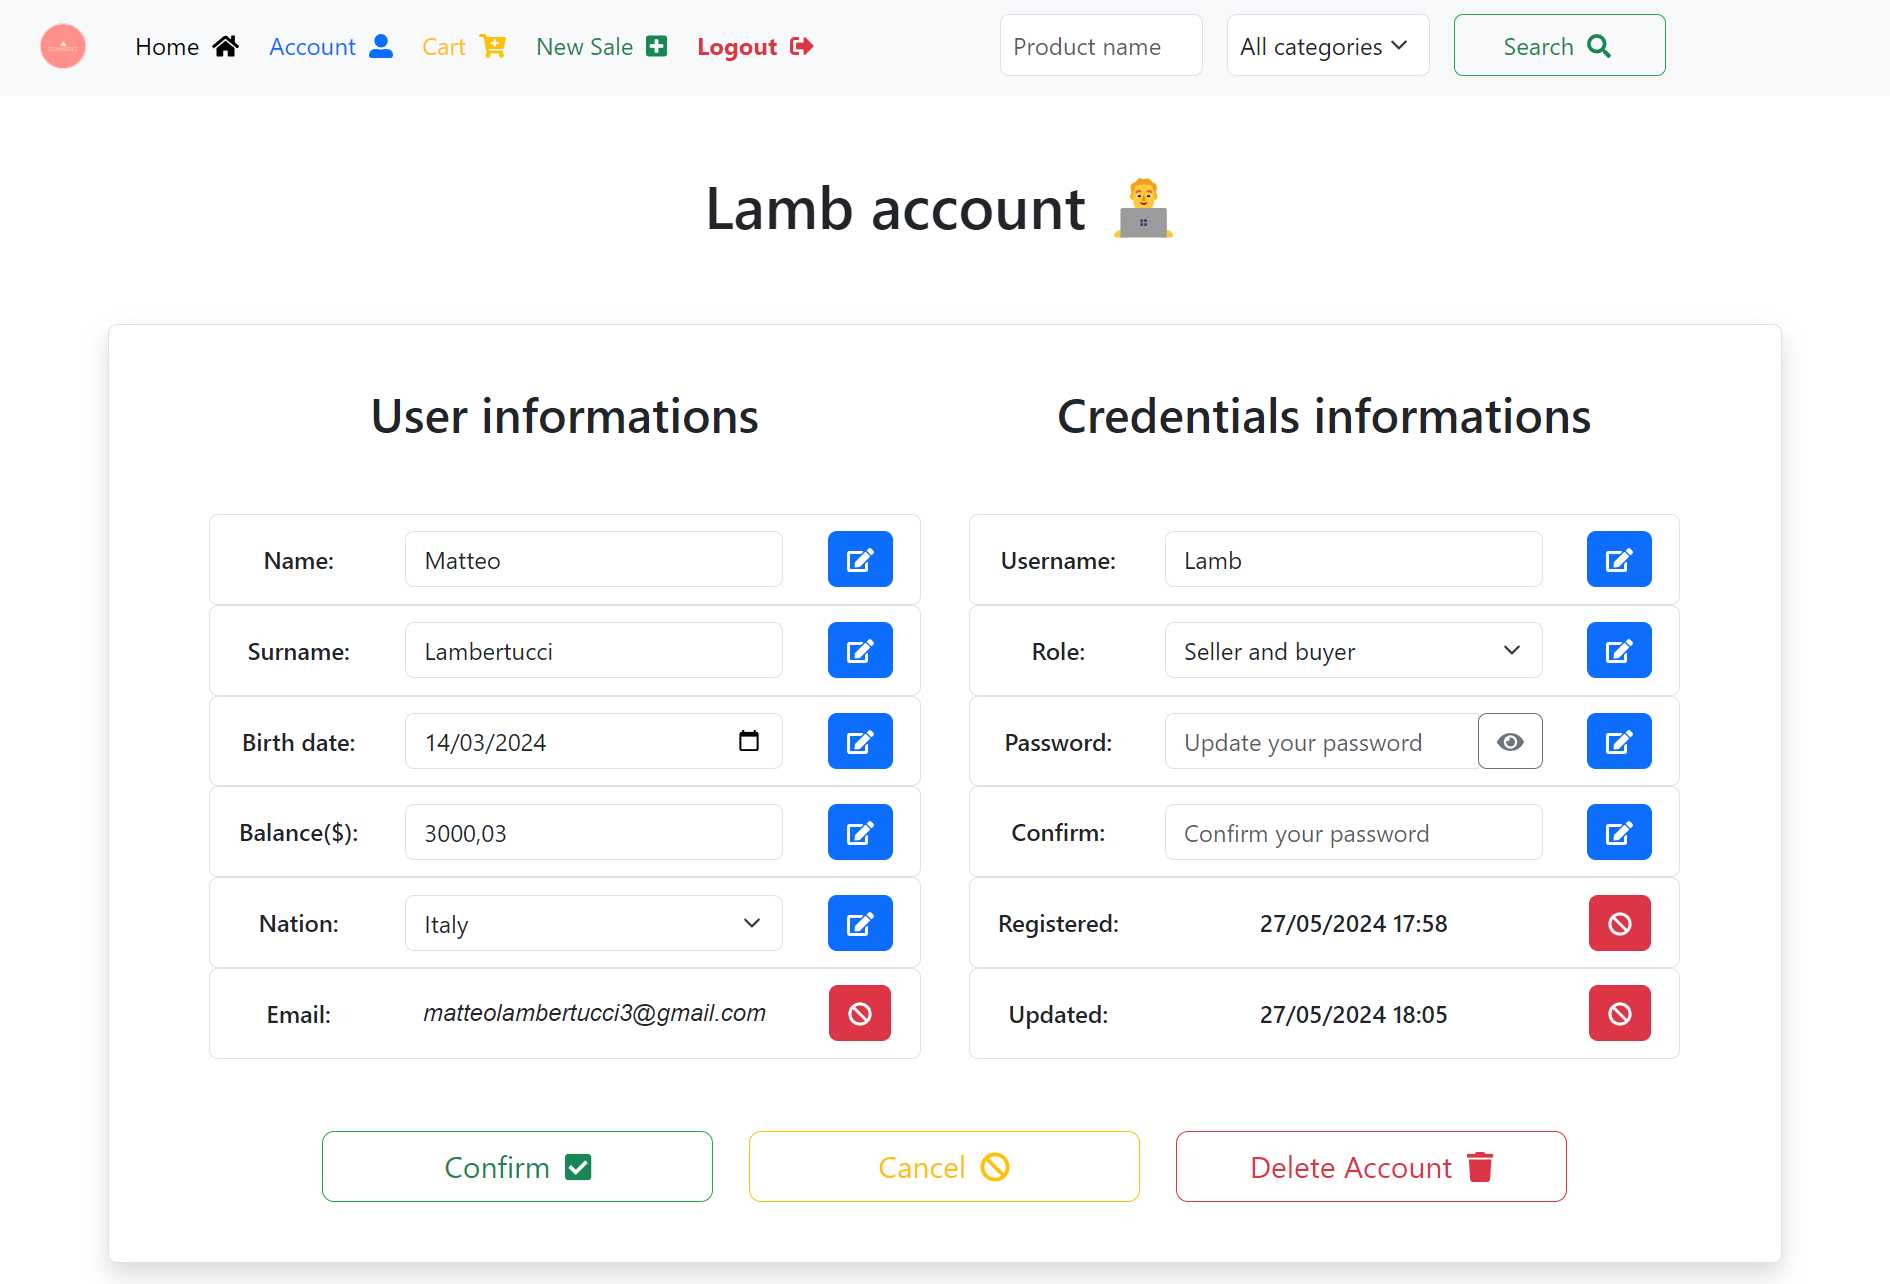
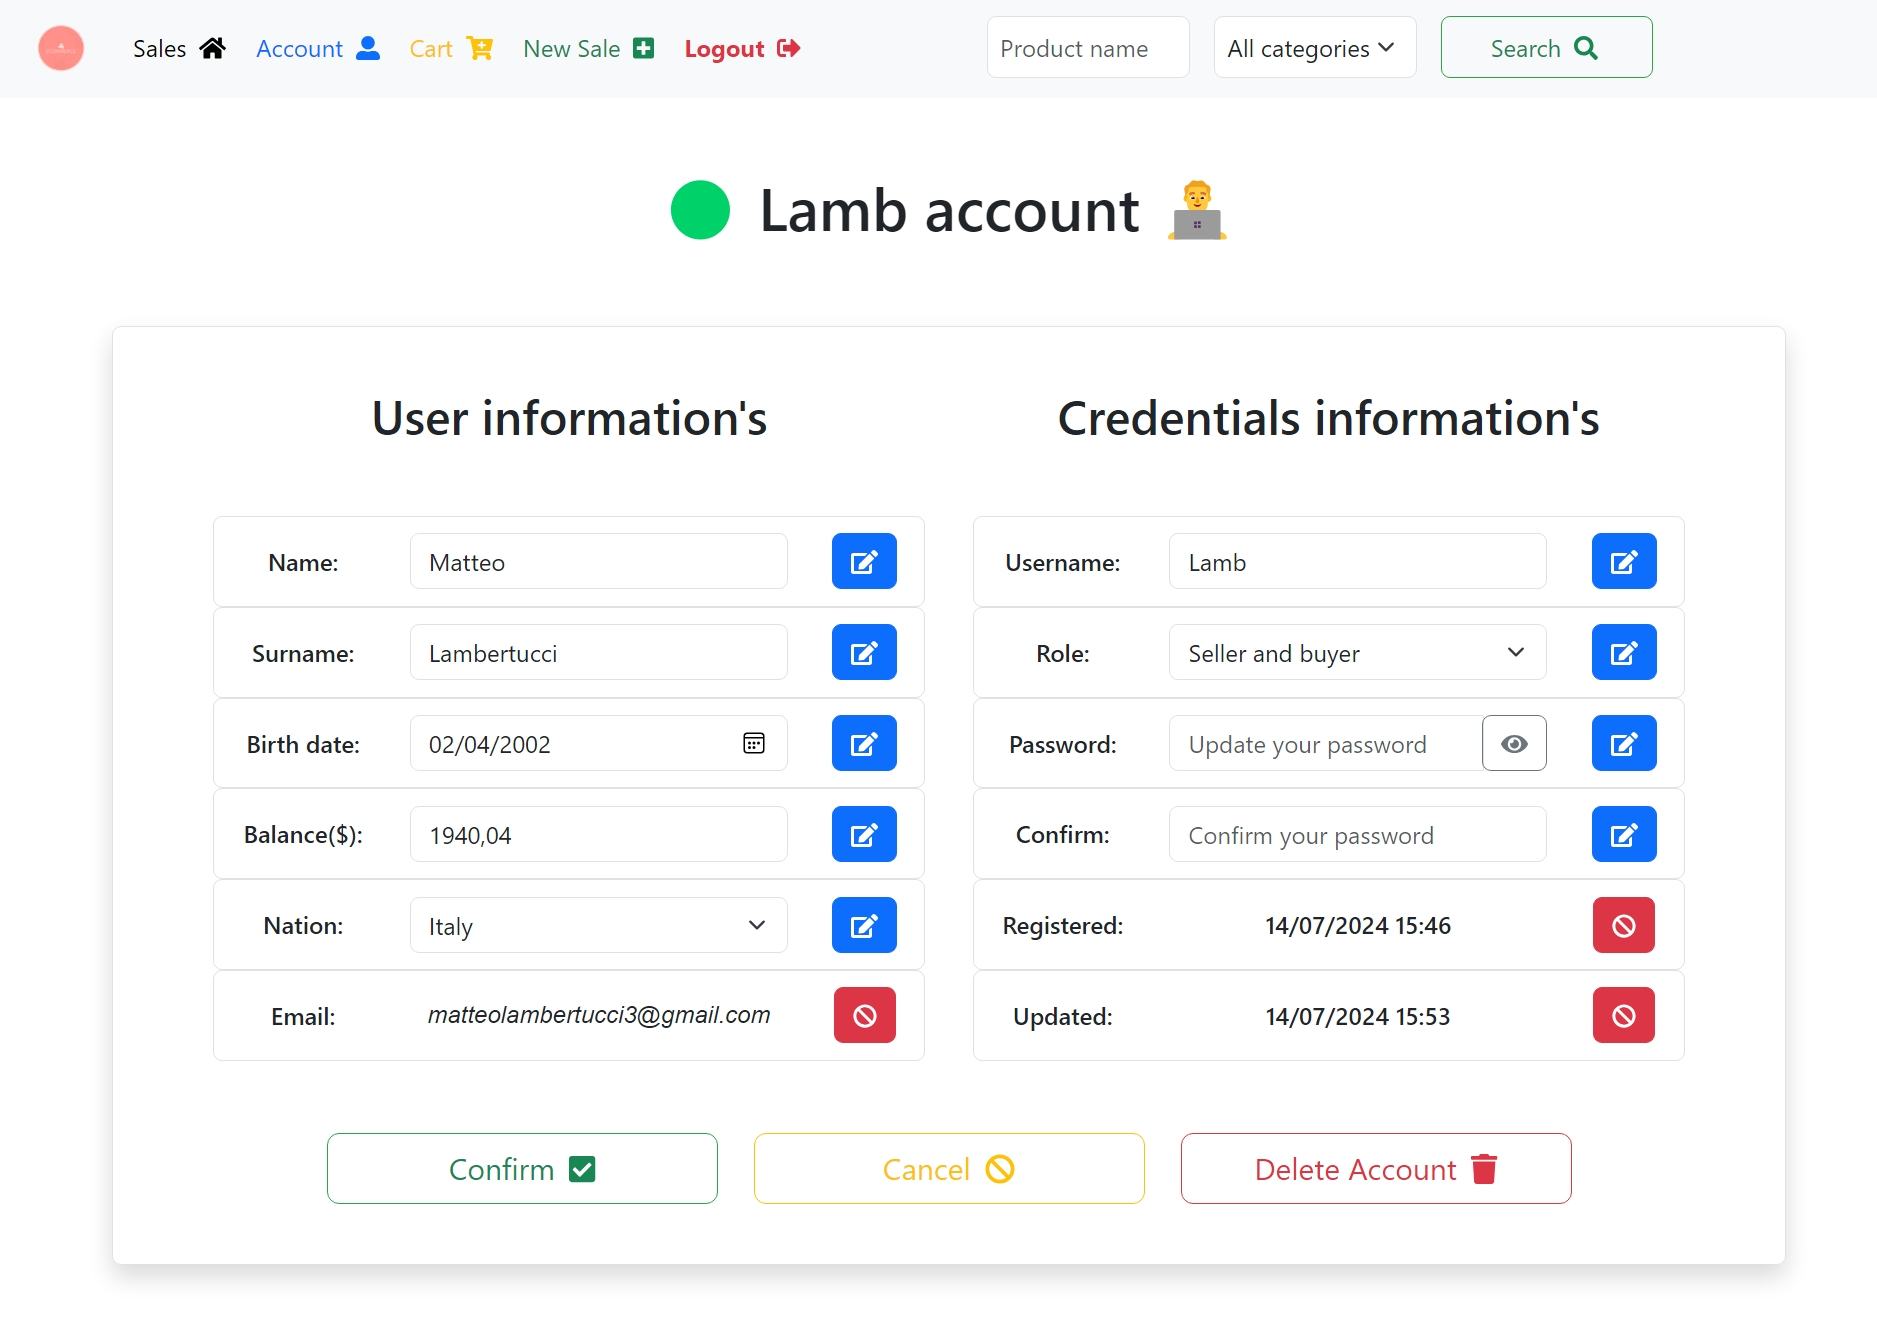
updated README.MD

diff --git a/src/main/resources/static/js/marketplace/cart/index.js b/src/main/resources/static/js/marketplace/cart/index.js
@@ -3,16 +3,15 @@ document.addEventListener("DOMContentLoaded", () => {
       baseUrl = "/marketplace/cart/updateCartLineItemQuantity/";
 
    cartContainer.addEventListener("change", event => {
-      window.alert(1);
       if (validateObject(event) && validateObject(event.target) && event.target.classList.contains("cartlineitem-quantity-input")) {
          const cartLineItemQuantityInput = event.target;
          // id e quantity del CartLineItem i-esimo.
          const
-            id = cartLineItemQuantityInput.id.replace("quantity#", ""),
-            quantity = parseInt(cartLineItemQuantityInput.value, 10);
-         const url = baseUrl + id;
+            cartLineItemId = cartLineItemQuantityInput.id.replace("quantity#", ""),
+            cartLineItemQuantity = parseInt(cartLineItemQuantityInput.value, 10);
+         const url = baseUrl + cartLineItemId;
          const data = {
-            quantity
+            cartLineItemQuantity
          };
          if (validateURI(url)) {
             axios.put(url, data)
@@ -38,10 +37,7 @@ document.addEventListener("DOMContentLoaded", () => {
          event.preventDefault();
          const deleteCartLineItemButton = event.target;
          const URI = deleteCartLineItemButton.href;
-
          if (validateURI(URI)) {
-            console.log(URI);
-
             axios.delete(URI)
                .then(response => {
                   console.log(response);

diff --git a/src/main/java/com/market/marketnexus/controller/SaleController.java b/src/main/java/com/market/marketnexus/controller/SaleController.java
@@ -248,7 +248,7 @@ public class SaleController {
       ModelAndView modelAndView = new ModelAndView(APIPaths.MARKETPLACE + "/sale.html");
       try {
          Sale sale = this.saleService.getSale(saleId);
-         //this.publishedSaleNotificationService.sendNotificationToAllUsers(sale);
+         this.publishedSaleNotificationService.sendNotificationToAllUsers(sale);
          modelAndView.addObject("sale", sale);
          modelAndView.addObject("saleId", saleId);
          modelAndView.addObject("isAddedToCart", false);

diff --git a/README.md b/README.md
@@ -76,6 +76,7 @@ carts) from different categories, visualize their stats and much more.
 
 <p align="center">
 	<img  title="MarketNexus MarketplaceScreen screenshoot 1"  alt="MarketNexus MarketplaceScreen screenshoot 1"  src="/src/main/resources/static/images/README/screenshots/marketplace/1.png"  width="100%" />
+    <img  title="MarketNexus MarketplaceScreen screenshoot 2"  alt="MarketNexus MarketplaceScreen screenshoot 1"  src="/src/main/resources/static/images/README/screenshots/marketplace/2.png"  width="100%" />
 </p>
 
 ## `Account page`
@@ -84,8 +85,7 @@ carts) from different categories, visualize their stats and much more.
 	<img  title="MarketNexus AccountScreen screenshoot 1"  alt="MarketNexus MarketplaceScreen screenshoot 1"  src="/src/main/resources/static/images/README/screenshots/account/1.png"  width="100%" />
     <img  title="MarketNexus AccountScreen screenshoot 2"  alt="MarketNexus MarketplaceScreen screenshoot 2"  src="/src/main/resources/static/images/README/screenshots/account/2.png"  width="100%" />
     <img  title="MarketNexus AccountScreen screenshoot 3"  alt="MarketNexus MarketplaceScreen screenshoot 3"  src="/src/main/resources/static/images/README/screenshots/account/3.png"  width="100%" />
-    <img  title="MarketNexus AccountScreen screenshoot 4"  alt="MarketNexus MarketplaceScreen screenshoot 3"  src="/src/main/resources/static/images/README/screenshots/account/4.png"  width="100%" />
-    <img  title="MarketNexus AccountScreen screenshoot 5"  alt="MarketNexus MarketplaceScreen screenshoot 3"  src="/src/main/resources/static/images/README/screenshots/account/5.png"  width="100%" />
+
 </p>
 
 ## `FAQs page`
@@ -222,8 +222,8 @@ public class MarketNexusApplication {
 ```java
 package com.market.marketnexus.authentication;
 
+import com.market.marketnexus.handler.CustomLogoutSuccessHandler;
 import com.market.marketnexus.helpers.constants.APIPaths;
-import com.market.marketnexus.helpers.constants.APIPrefixes;
 import com.market.marketnexus.helpers.constants.ProjectPaths;
 import com.market.marketnexus.helpers.credentials.Roles;
 import org.springframework.beans.factory.annotation.Autowired;
@@ -254,6 +254,8 @@ public class AuthConfiguration implements WebMvcConfigurer {
    private static final String[] CLASSPATH_RESOURCE_LOCATIONS = {"classpath:" + ProjectPaths.STATIC + "/"};
    @Autowired
    private DataSource dataSource;
+   @Autowired
+   private CustomLogoutSuccessHandler customLogoutSuccessHandler;
 
    @Override
    public void addResourceHandlers(@NonNull ResourceHandlerRegistry resourceHandlerRegistry) {
@@ -293,20 +295,21 @@ public class AuthConfiguration implements WebMvcConfigurer {
               .authorizeHttpRequests(
                       authorizeHttpRequestsCustomizer -> authorizeHttpRequestsCustomizer
                               .requestMatchers(HttpMethod.GET, "/", "/registration", "/login", "/forgotUsername", "/logout", "/FAQs", "/css/**", "/js/**", "/images/**").permitAll()
-                              .requestMatchers(HttpMethod.POST, "/registerNewUser", "/sendForgotUsernameEmail").permitAll()
+                              .requestMatchers(HttpMethod.POST, "/registerNewUser", "/sendForgotUsernameEmail", "/storeFirebaseToken").permitAll()
+                              .requestMatchers("/json/**", "/txt/**").denyAll()
+                              .requestMatchers("/firebase-cloud-messaging-push-scope", "/firebase-messaging-sw.js").permitAll()
                               .requestMatchers(new RegexRequestMatcher(".*newSale.*", null)).hasAnyAuthority(Roles.SELLER_AND_BUYER.toString(), Roles.SELLER.toString())
-                              .requestMatchers(new RegexRequestMatcher(".*updateSale.*", null)).hasAnyAuthority(Roles.SELLER_AND_BUYER.toString(), Roles.SELLER.toString())
-                              .requestMatchers(new RegexRequestMatcher(".*updatedSale.*", null)).hasAnyAuthority(Roles.SELLER_AND_BUYER.toString(), Roles.SELLER.toString())
+                              .requestMatchers(HttpMethod.GET, "/" + APIPaths.MARKETPLACE + "/sales/updatedSale").hasAnyAuthority(Roles.SELLER_AND_BUYER.toString(), Roles.SELLER.toString())
+                              .requestMatchers(HttpMethod.POST, "/" + APIPaths.MARKETPLACE + "/sales/publishUpdatedSale").hasAnyAuthority(Roles.SELLER_AND_BUYER.toString(), Roles.SELLER.toString())
                               .requestMatchers(new RegexRequestMatcher(".*cart.*", null)).hasAnyAuthority(Roles.SELLER_AND_BUYER.toString(), Roles.BUYER.toString())
                               .requestMatchers(new RegexRequestMatcher(".*order.*", null)).hasAnyAuthority(Roles.SELLER_AND_BUYER.toString(), Roles.BUYER.toString())
-                              .requestMatchers(HttpMethod.DELETE).denyAll()
                               .requestMatchers(HttpMethod.GET, "/" + APIPaths.MARKETPLACE + "/**").authenticated()
                               .requestMatchers(HttpMethod.POST, "/" + APIPaths.MARKETPLACE + "/**").authenticated()
                               .anyRequest().authenticated()
               )
               .formLogin(formLogin -> formLogin
                       .loginPage("/login")
-                      .defaultSuccessUrl("/" + APIPaths.MARKETPLACE, true)
+                      .defaultSuccessUrl("/" + APIPaths.SALES, true)
                       .failureUrl("/login?invalidCredentials=true")
                       .usernameParameter("username")
                       .passwordParameter("password")
@@ -315,7 +318,7 @@ public class AuthConfiguration implements WebMvcConfigurer {
               .oauth2Login(oauth2Login ->
                       oauth2Login
                               .loginPage("/oauth2/authorization/google")
-                              .defaultSuccessUrl("/" + APIPaths.MARKETPLACE, true)
+                              .defaultSuccessUrl("/" + APIPaths.SALES, true)
                               .failureUrl("/login?invalidCredentials=true")
                               .permitAll()
               )
@@ -327,6 +330,7 @@ public class AuthConfiguration implements WebMvcConfigurer {
                       .deleteCookies("JSESSIONID")
                       .logoutRequestMatcher(new AntPathRequestMatcher("/logout"))
                       .clearAuthentication(true)
+                      .logoutSuccessHandler(this.customLogoutSuccessHandler)
                       .permitAll());
       return httpSecurity.build();
    }
@@ -438,6 +442,7 @@ package com.market.marketnexus.controller;
 import com.market.marketnexus.controller.validator.CredentialsValidator;
 import com.market.marketnexus.controller.validator.UserValidator;
 import com.market.marketnexus.exception.UserEmailNotExistsException;
+import com.market.marketnexus.helpers.constants.APIPaths;
 import com.market.marketnexus.helpers.constants.GlobalErrorsMessages;
 import com.market.marketnexus.helpers.credentials.Utils;
 import com.market.marketnexus.model.Credentials;
@@ -449,17 +454,22 @@ import jakarta.validation.Valid;
 import org.slf4j.Logger;
 import org.slf4j.LoggerFactory;
 import org.springframework.beans.factory.annotation.Autowired;
+import org.springframework.http.HttpStatus;
+import org.springframework.http.ResponseEntity;
 import org.springframework.lang.NonNull;
 import org.springframework.security.crypto.password.PasswordEncoder;
 import org.springframework.stereotype.Controller;
 import org.springframework.validation.BindingResult;
-import org.springframework.web.bind.annotation.GetMapping;
-import org.springframework.web.bind.annotation.ModelAttribute;
-import org.springframework.web.bind.annotation.PostMapping;
-import org.springframework.web.bind.annotation.RequestParam;
+import org.springframework.web.bind.annotation.*;
 import org.springframework.web.servlet.ModelAndView;
 
 import java.io.IOException;
+import java.nio.file.Files;
+import java.nio.file.Path;
+import java.nio.file.Paths;
+import java.nio.file.StandardOpenOption;
+import java.util.List;
+import java.util.Map;
 
 @Controller
 public class AuthenticationController {
@@ -545,6 +555,33 @@ public class AuthenticationController {
          }
       }
       return modelAndView;
+   }
+
+   @GetMapping(value = {"/" + APIPaths.MARKETPLACE, "/" + APIPaths.MARKETPLACE + "/"})
+   public ModelAndView redirectToMarketPlaceSales() {
+      return new ModelAndView("redirect:/" + APIPaths.SALES);
+   }
+
+   @PostMapping("/storeFirebaseToken")
+   public ResponseEntity<?> storeFirebaseToken(@RequestBody Map<String, String> data) {
+      try {
+         Path path = Paths.get("src/main/resources/static/txt/tokens.txt");
+         List<String> existingTokens = Files.readAllLines(path);
+         String token = data.get("token");
+         if (token != null && !existingTokens.contains(token)) {
+            Files.write(path, (token + System.lineSeparator()).getBytes(), StandardOpenOption.CREATE, StandardOpenOption.APPEND);
+            AuthenticationController.LOGGER.info("Firebase token stored successfully: {}", token);
+            return new ResponseEntity<>(HttpStatus.OK);
+         } else {
+            // Token già esistente
+            String responseMessage = "Firebase token already exists";
+            AuthenticationController.LOGGER.warn(responseMessage);
+            return new ResponseEntity<>(responseMessage, HttpStatus.CONFLICT);
+         }
+      } catch (IOException e) {
+         AuthenticationController.LOGGER.error(e.getMessage());
+         return new ResponseEntity<>(HttpStatus.INTERNAL_SERVER_ERROR);
+      }
    }
 }
 ```
@@ -721,7 +758,7 @@ public class Cart {
    @Unsigned
    @GeneratedValue(strategy = GenerationType.IDENTITY)
    @Column(name = "id", nullable = false)
-   @Min(FieldSizes.ENTITY_ID_MIN_VALUE)
+   @Min(value = FieldSizes.ENTITY_ID_MIN_VALUE)
    private Long id;
 
    @Min((long) FieldSizes.CART_CARTPRICE_MIN_VALUE)
@@ -1200,46 +1237,47 @@ font-size: 16 px;
 ### `/js/marketplace/account/stats/chart/index.js`
 
 ```javascript
-//Chart.defaults.elements.bar.borderWidth = 2;
-
-const CHART_TYPES = {
-   bar: "bar",
-   line: "line",
-   horizontalBar: "horizontalBar",
-   pie: "pie",
-   //radar: "radar",
-   //polarArea: "polarArea",
-   bubble: "bubble",
-   doughnut: "doughnut",
-};
-
-const isMultiColorChartType = chartType => chartType === CHART_TYPES.pie || chartType === CHART_TYPES.doughnut;
-
-const getChartColor = chartType =>
-   isMultiColorChartType(chartType) ? [
-      "#0D6EFD", // PRIMARY
-      "#6C757D", // SECONDARY
-      "#198754", // SUCCESS
-      "#DC3545", // DANGER
-      "#FFC107", // WARNING
-      "#0DCAF0", // INFO
-      "#212529", // DARK
-   ] : "#1D86BA";
-
-
-const chartTypeSelect = document.getElementById("chart-type-select");
-
-const weekDaysXToNumberOfSalesY = [];
-
-let weekDaysX = null, numberOfSoldSalesY = null;
-
-const canvas = document.getElementById("chart");
-
-const ctx = canvas.getContext("2d");
-
-let type = null, data = null, options = null, config = null;
-
 document.addEventListener("DOMContentLoaded", () => {
+
+   //Chart.defaults.elements.bar.borderWidth = 2;
+
+   const CHART_TYPES = {
+      bar: "bar",
+      line: "line",
+      horizontalBar: "horizontalBar",
+      pie: "pie",
+      //radar: "radar",
+      //polarArea: "polarArea",
+      bubble: "bubble",
+      doughnut: "doughnut",
+   };
+
+   const isMultiColorChartType = chartType => chartType === CHART_TYPES.pie || chartType === CHART_TYPES.doughnut;
+
+   const getChartColor = chartType =>
+      isMultiColorChartType(chartType) ? [
+         "#0D6EFD", // PRIMARY
+         "#6C757D", // SECONDARY
+         "#198754", // SUCCESS
+         "#DC3545", // DANGER
+         "#FFC107", // WARNING
+         "#0DCAF0", // INFO
+         "#212529", // DARK
+      ] : "#1D86BA";
+
+
+   const chartTypeSelect = document.getElementById("chart-type-select");
+
+   const weekDaysXToNumberOfSalesY = [];
+
+   let weekDaysX = null, numberOfSoldSalesY = null;
+
+   const canvas = document.getElementById("chart");
+
+   const ctx = canvas.getContext("2d");
+
+   let type = null, data = null, options = null, config = null;
+
    axios.get(`${baseAPIURI}chartData`)
       .then(response => {
          console.log(response);
